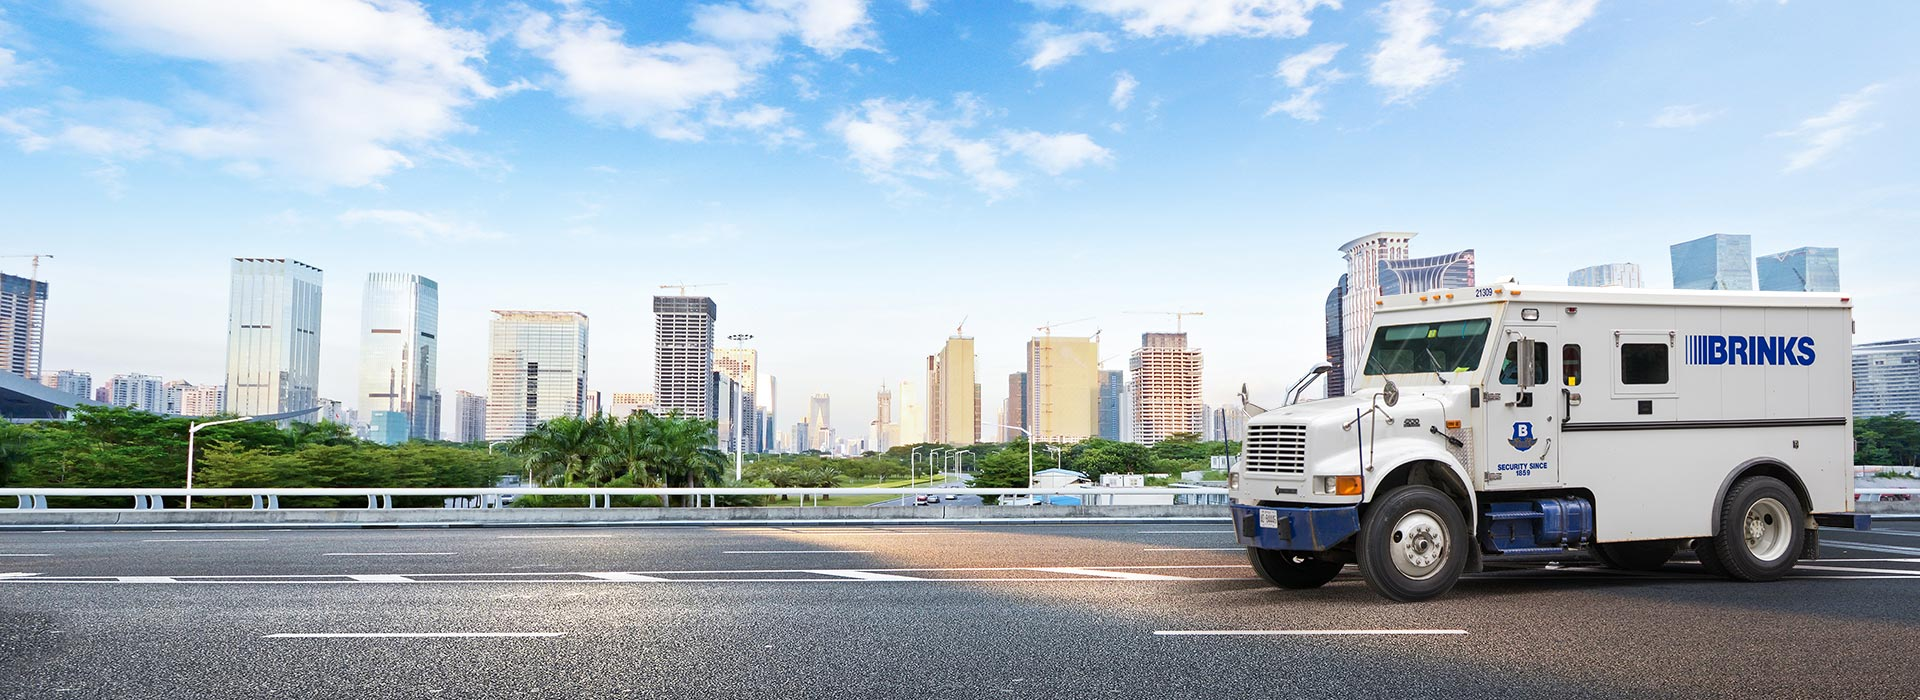
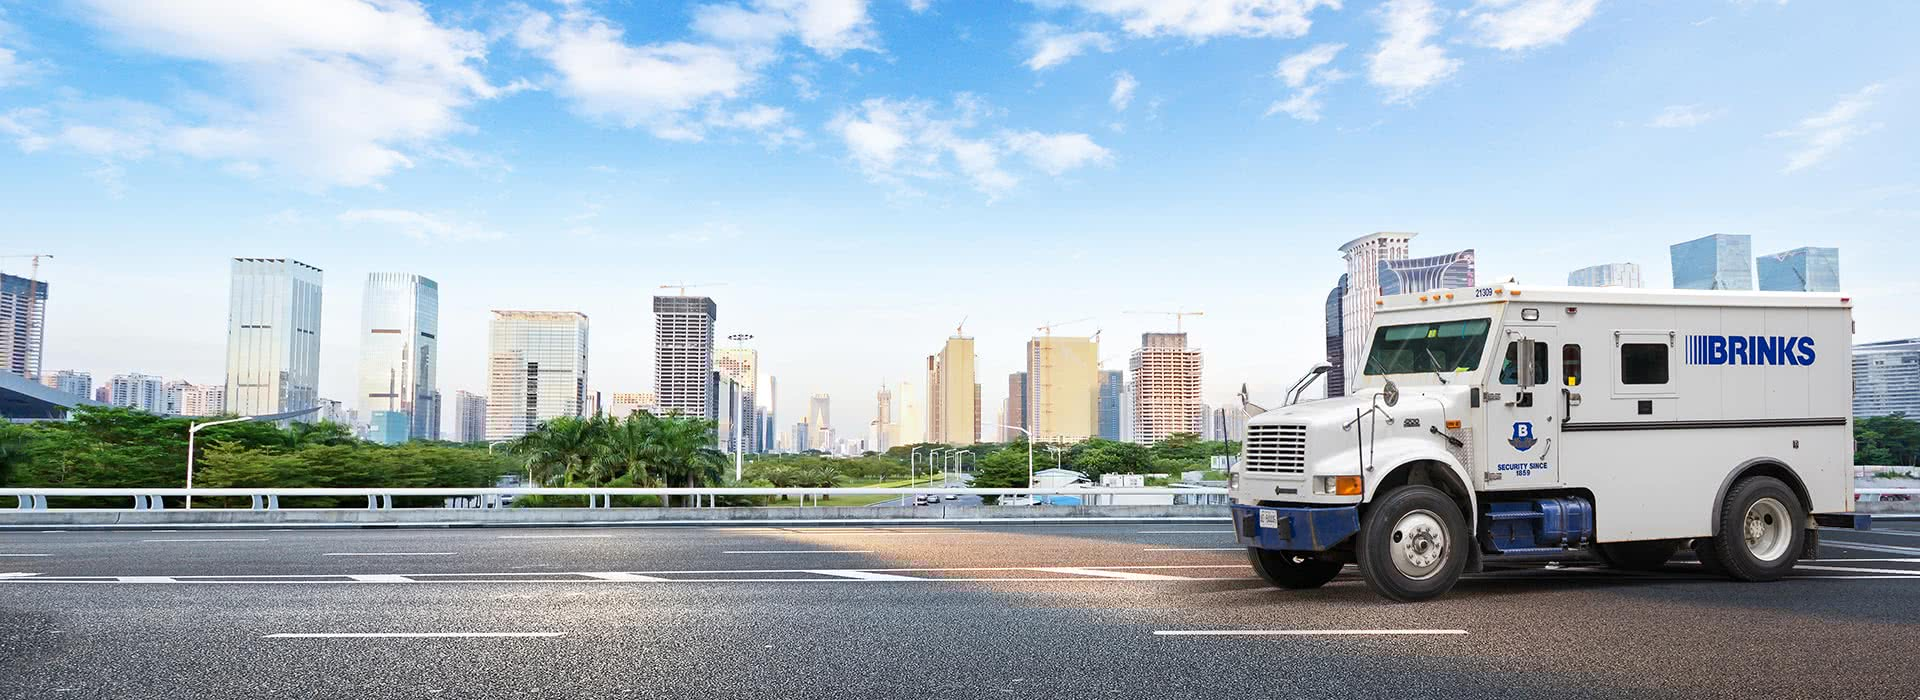
optimized images.

Changed region(s): [[0.5938, 0.51, 0.625, 0.63], [0.2812, 0.96, 0.3438, 1.0]]

diff --git a/site/styles/content_mobile.less b/site/styles/content_mobile.less
@@ -365,3 +365,11 @@ footer div.form_container form div.controls button {
 	background-color: @color_blue;
 	color: white;
 }
+
+//Copyright
+div.copyright {
+	background-color: @color_text;
+	color: white;
+	text-align: center;
+	background-position: calc(~'(50% - 100px)') center;
+}

diff --git a/site/styles/main_mobile.less b/site/styles/main_mobile.less
@@ -8,8 +8,9 @@
 
 @import (reference) 'common.less';
 @import (reference) 'stock/functions.less';
-// @import 'header_mobile.less';
 @import 'content_mobile.less';
+@import 'stock/copyright_mobile.css';
+// @import 'header_mobile.less';
 // @import 'footer_mobile.less';
 
 body {

diff --git a/site/styles/content.less b/site/styles/content.less
@@ -439,3 +439,11 @@ footer div.form_container form div.controls button {
 		background-attachment: initial;
 	}
 }
+
+//Copyright
+div.copyright {
+	background-color: @color_text;
+	color: white;
+	text-align: center;
+	background-position: calc(~'(50% - 100px)') center;
+}

diff --git a/site/styles/main.less b/site/styles/main.less
@@ -9,6 +9,7 @@
 @import (reference) 'common.less';
 @import (reference) 'stock/functions.less';
 @import 'content.less';
+@import 'stock/copyright.css';
 // @import 'header.less';
 // @import 'footer.less';
 

diff --git a/Checklist.md b/Checklist.md
@@ -3,37 +3,37 @@
 All of these need to be checked manually, changed and then committed. System will refuse to deploy the site if some of the checkboxes are left empty. To keep things consistent items that were checked and found to be okay developer needs to mark with `x` while items that don't apply need to be marked with `x` and list item prepended with `>`.
 
 - Site specific items:
-	- [ ] `system_init.xml` file contains all the modules used;
+	- [x] `system_init.xml` file contains all the modules used;
 	- [ ] Deployment script `group_vars/all` file is configured;
-	- [ ] Deployment `hosts.txt` file is configured;
-	- [ ] All the languages site is targeting are configured in `config.php`;
+	- [x] Deployment `hosts.txt` file is configured;
+	- [x] All the languages site is targeting are configured in `config.php`;
 	- [ ] Site title is properly defined;
-	- [ ] No errors or warnings are reported in the log file;
-	- [ ] Templates for registering and recovering user password are created and selected;
-	- [ ] PNG images are optimized using `optipng` command;
-	- [ ] JPEG images are converted from original PNG and optimized using `guetzli` command;
-	- [ ] SVG images are cleaned and optimized;
-	- [ ] Site has favicon specified in different sizes (16, 32, 64);
-	- [ ] All active elements of the site have `:hover` and `:focus` styles defined;
-	- [ ] Site has copyright;
-	- [ ] `README.md` file updated appropriately with licensing information;
-	- [ ] Code in `main.js` targets all pages. Code meant for individual pages is in separate files;
-	- [ ] Styles are written to target LTR by default with RTL modifications, even on RTL-only sites.
+	- [x] No errors or warnings are reported in the log file;
+	-> [x] Templates for registering and recovering user password are created and selected;
+	- [x] PNG images are optimized using `optipng` command;
+	- [x] JPEG images are converted from original PNG and optimized using `guetzli` command;
+	- [x] SVG images are cleaned and optimized;
+	- [x] Site has favicon specified in different sizes (16, 32, 64);
+	- [x] All active elements of the site have `:hover` and `:focus` styles defined;
+	- [x] Site has copyright;
+	- [x] `README.md` file updated appropriately with licensing information;
+	- [x] Code in `main.js` targets all pages. Code meant for individual pages is in separate files;
+	-> [x] Styles are written to target LTR by default with RTL modifications, even on RTL-only sites.
 - Contact form:
-	- [ ] SendGrid API access is configured;
-	- [ ] Mandrill API access is configured;
-	- [ ] SMTP credentials are configured and working;
+	- [x] SendGrid API access is configured;
+	-> [x] Mandrill API access is configured;
+	-> [x] SMTP credentials are configured and working;
 	- [ ] Default sender email;
 	- [ ] Default recipient;
-	- [ ] Forms have honeypot field;
-	- [ ] Templates for each form are created and assigned to form;
-	- [ ] Templates have subject properly defined;
+	- [x] Forms have honeypot field;
+	- [x] Templates for each form are created and assigned to form;
+	- [x] Templates have subject properly defined;
 	- [ ] Form submits and client/developer receives email.
 - Shop:
-	- [ ] Desired payment method is enabled and configured;
-	- [ ] Default warehouse is created;
-	- [ ] Default currency is selected;
-	- [ ] Contact form template for transaction is created and selected;
-	- [ ] Shop is not in testing mode.
+	-> [x] Desired payment method is enabled and configured;
+	-> [x] Default warehouse is created;
+	-> [x] Default currency is selected;
+	-> [x] Contact form template for transaction is created and selected;
+	-> [x] Shop is not in testing mode.
 - Articles:
-	- [ ] Each article has a title even if it's not used;
+	- [x] Each article has a title even if it's not used;
